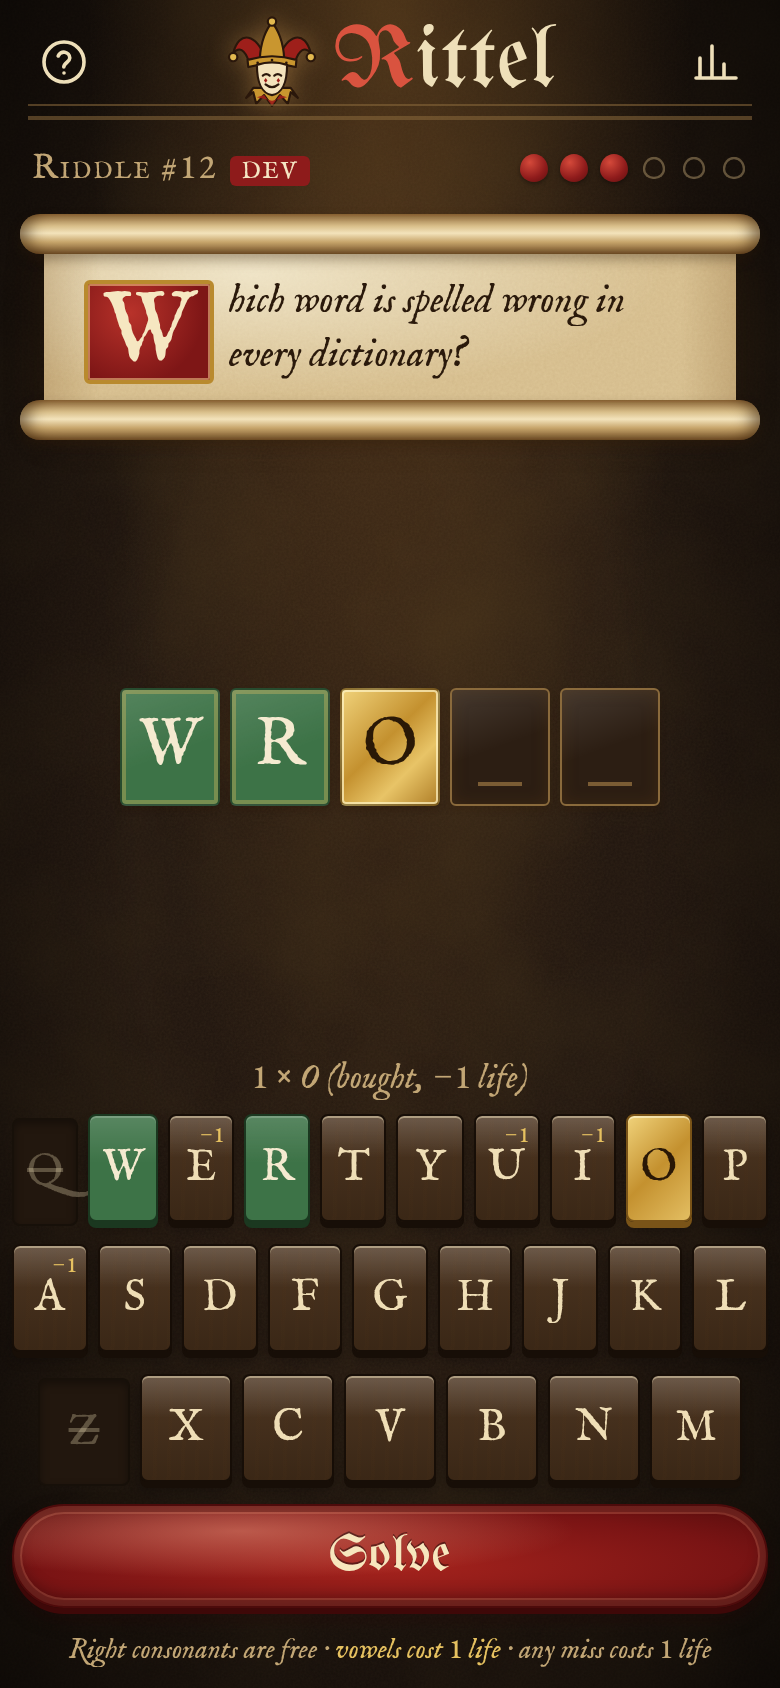
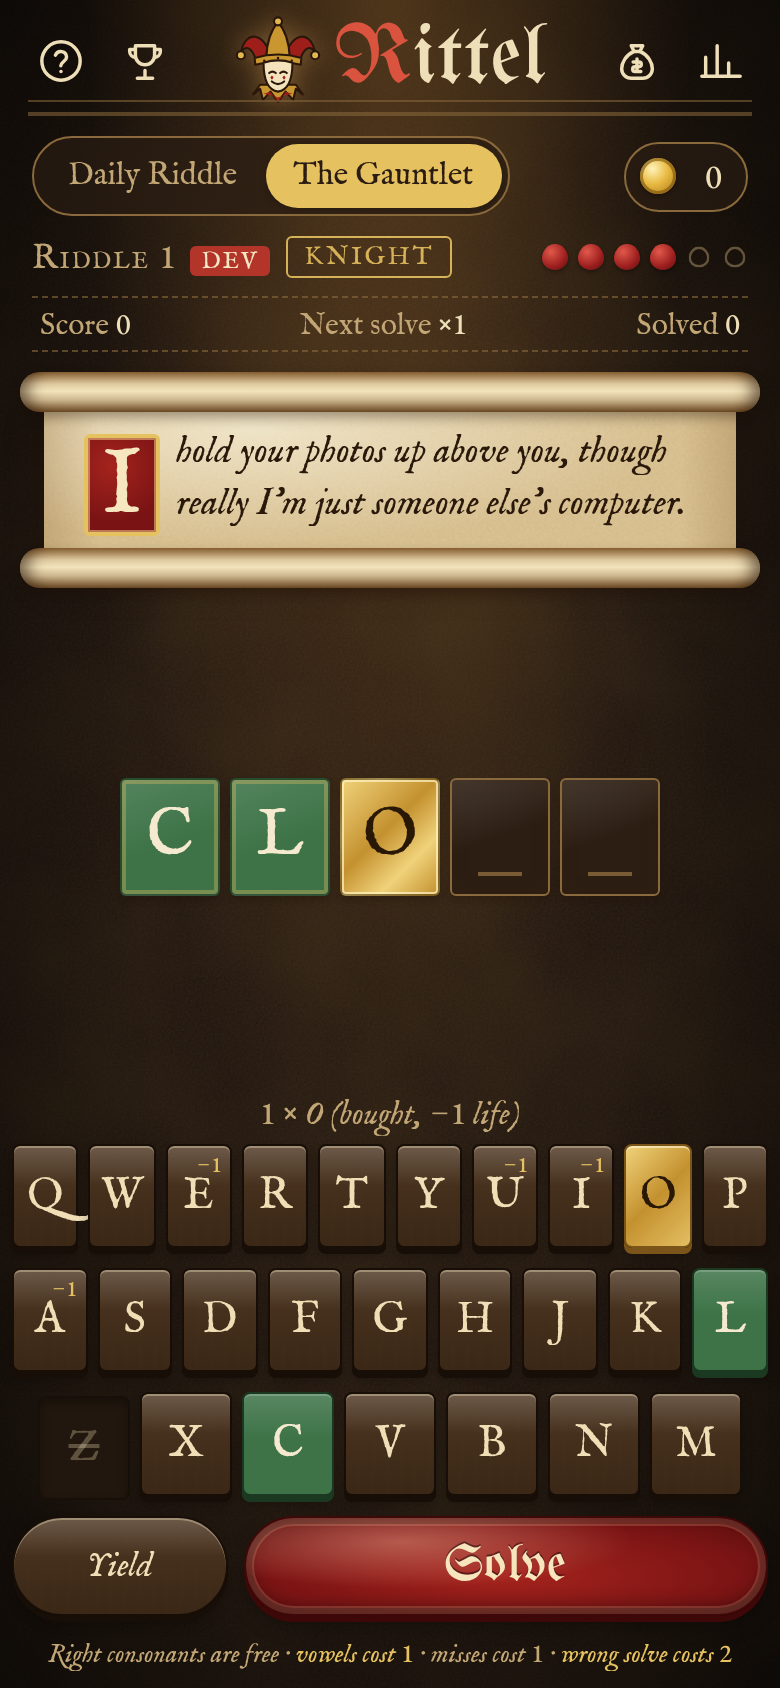
Docs: v2 README (modes, rules, scoring, Armory, ads, roadmap) and screenshots

diff --git a/README.md b/README.md
@@ -1,52 +1,138 @@
 # Rittel 🃏
 
-**A daily riddle game, like Wheel of Fortune meets Wordle.**
+**Riddles of the court: Wheel of Fortune meets Wordle, with an endless Gauntlet.**
 
-Each day brings one riddle. The answer starts as blank tiles on an old parchment scroll, and you have six lives to reveal it.
+The court jester poses a riddle. Its answer sits as blank tiles on an old parchment scroll, and you reveal it letter by letter, or solve it early for a big bonus, before your lives run out.
 
-![Rittel mid-game](docs/play.png)
+| Daily Riddle | The Gauntlet | Points |
+| --- | --- | --- |
+| ![Daily riddle mid-game](docs/play.png) | ![Gauntlet start](docs/gauntlet-start.png) | ![Points popping after a solve](docs/gauntlet.png) |
 
 ## How to play
 
-- Guess a consonant. If it's in the answer, it's free. If not, you lose a life.
-- Vowels always cost a life, like buying one on Wheel of Fortune, and you can't buy one on your last life.
-- Hit **Solve** (or press Enter) whenever you think you know it. A wrong solve costs a life.
-- Your score is the number of lives you used, so lower is better.
-- Share your result as an emoji grid, Wordle-style:
+- **Consonants** are free if they're in the answer. A wrong consonant costs **1 life**.
+- **Vowels** (A E I O U) always cost **1 life**, right or wrong, and you can't buy one with your last life.
+- **Solve** at any time. A **wrong solve costs 2 lives**, so blind guessing is a real gamble.
+- Fill every tile or solve it to win.
+
+## Modes
+
+### Daily Riddle
+- One shared riddle per day with **6 lives**, picked from the local date.
+- Difficulty follows the week: **Squire on Monday, Knight Tuesday to Thursday, Sage Friday to Sunday**.
+- Stats, streaks and a lives-used chart, a countdown to tomorrow's riddle, and a Wordle-style share:
 
 ```
 Rittel #298 🧩 2/6
 🟩🟩⬛🟨🟩⭐
+⚜ 790 points
 ```
 
 🟩 letter found · 🟨 vowel bought · ⬛ miss · 🟥 wrong solve · ⭐ solved
 
-## Features
+### The Gauntlet (endless)
+- Riddle after riddle. The run ends when your lives run out.
+- You start with **6 lives**, and lives **carry over** between riddles.
+- Every solve heals **1 life**, and a **flawless** solve (no lives lost on that riddle) heals **2**, up to **9**.
+- **Yield** skips a riddle for 1 life and resets your streak.
+- Difficulty ramps up as the run goes on: mostly Squire at first, mostly Sage after riddle 8.
+- Riddles **never repeat** until you've seen the whole bank. Today's daily riddle is always kept out of the Gauntlet.
+- Runs are recorded in the **Hall of Fame** with your name.
 
-- A new riddle every day from a bank of 70 originals
-- Stats, streaks and a lives-used distribution saved in the browser
-- Medieval scroll styling with blackletter type and a hand-drawn jester logo
-- A candlelit dark mode and a mobile-friendly layout
-- A single self-contained HTML file with no network calls, tracking or dependencies
+## Scoring
 
-| Win screen | Dark mode |
+```
+points = (tier base + hidden-tile bonus + 10 × lives left) × streak multiplier      (rounded to 5)
+```
+
+| Part | Value |
 | --- | --- |
-| ![Win screen](docs/win.png) | ![Dark mode on mobile](docs/mobile-dark.png) |
+| Tier base | Squire 100 · Knight 200 · Sage 300 |
+| Hidden-tile bonus | up to +200% of base: `base × 2 × (tiles still hidden ÷ total tiles)` at the moment you solve |
+| Lives bonus | +10 per life left after the solve |
+| Streak multiplier | ×1, ×1.25, ×1.5 … capped at ×3. In the Gauntlet it counts consecutive solves in the run; in the Daily it counts consecutive days solved. |
+
+Solving a Sage riddle cold with everything hidden is worth 3× the base, but a miss costs 2 lives. Filling in tiles is safer but scores less.
+
+## Progression: gold and the Armory
+
+Every point you earn also goes into your **gold** purse. Spend it in **the Armory**:
+
+| Item | Price |
+| --- | --- |
+| Parchment (default; candlelit leather in dark mode) | free |
+| Royal Court (purple velvet and gold leaf) | 2,500 |
+| Forest Ranger (oak, moss and lantern light) | 4,000 |
+| Banish the Ads | 6,000 |
+| Dragon's Hoard (obsidian, embers and gold) | 8,000 |
+
+A good Gauntlet run earns about 800 to 2,000 gold, so the first skin comes after a few runs. Skins are pure CSS variable themes (`src/skins.css`).
+
+| Royal Court | Forest Ranger | Dragon's Hoard | Candlelit (dark mode) |
+| --- | --- | --- | --- |
+| ![Royal Court skin](docs/skin-royal.png) | ![Forest Ranger skin](docs/skin-forest.png) | ![Dragon's Hoard skin](docs/skin-dragon.png) | ![Dark mode](docs/mobile-dark.png) |
+
+| Daily result | Run over | Hall of Fame | Armory |
+| --- | --- | --- | --- |
+| ![Daily win screen](docs/win.png) | ![Run end](docs/run-end.png) | ![Hall of Fame](docs/hall.png) | ![The Armory](docs/shop.png) |
+
+## Riddle bank
+
+`src/riddles.txt` holds **374 original riddles**: 126 Squire, 123 Knight and 125 Sage. They are a mix of descriptive riddles, wordplay, idioms, myth and history, and a few for the tech crowd. Each line is `tier|ANSWER|riddle`. The answer is A–Z and spaces only and doubles as the riddle's stable id. The build rejects duplicates, bad characters, unknown tiers or a bank under 250. The tests also check that no riddle gives away its own answer.
+
+## Leaderboard
+
+For now the Hall of Fame is local to the device: top Gauntlet runs with names, best daily scores, and lifetime records. All UI goes through a small adapter in `src/game.js`:
+
+```js
+// submitScore(board, entry) -> Promise<{rank}>     board: "gauntlet" | "daily"
+// getTop(board, limit)     -> Promise<entry[]>
+const Leaderboard = LocalLeaderboard;   // swap in a remote adapter (Supabase, Firebase …) later
+```
+
+## Ads (off)
+
+There's an isolated, **disabled-by-default** bottom banner slot (`#adSlot`). With `CONFIG.ADS_ENABLED = false` it renders nothing, takes no space and loads no scripts. It also stays hidden for anyone who owns **Banish the Ads**. When enabled, it reserves a fixed 60px height so the page never jumps when an ad loads.
+
+On the web this would be **Google AdSense**. AdMob is Google's ad network for native iOS/Android apps, so it only applies if Rittel is wrapped as a native app. To turn ads on:
+1. Get the site approved in AdSense and create a display ad unit.
+2. Set `ADS_ENABLED: true`, `AD_CLIENT: "ca-pub-…"` and `AD_SLOT: "…"` in `CONFIG` at the top of `src/game.js`.
+3. Fill in `Ads.load()` to inject the AdSense loader script and an `<ins class="adsbygoogle">` unit into the slot.
+4. Add an `ads.txt` file to the site root, add a privacy policy, and set up a consent banner (a CMP) for EU/UK visitors.
+5. Re-run the tests. The "no network requests" check is expected to fail once ads are live, so scope it to the non-ad build.
 
 ## Development
 
-Open `index.html` in any browser to play locally.
+`index.html` is a single, self-contained, offline file built from `src/`. Don't edit it by hand.
 
-- `?day=N` plays a specific day, with separate dev stats, and `&reset=1` clears them.
-- `index.html` is generated, so don't edit it directly. Change game logic in `src/game.html`, styling in `src/style.css` and the logo in `src/jester.svg`, then rebuild with:
+| File | What it holds |
+| --- | --- |
+| `src/game.html` | page template |
+| `src/game.js` | game logic, scoring, modes, shop, leaderboard adapter, ads config |
+| `src/riddles.txt` | riddle bank |
+| `src/skins.css` / `src/style.css` | skin variables / base styles |
+| `src/jester.svg` | logo and favicon |
+| `src/fonts/` | OFL font subsets, embedded as base64 |
 
 ```sh
-python3 src/build.py
+python3 src/build.py        # build index.html (validates the riddle bank)
+python3 tests/test.py       # end-to-end tests (Playwright + Chrome/Chromium)
+python3 tests/shots.py      # regenerate docs/ screenshots
 ```
 
-- Tests use Playwright: `pip install playwright && playwright install chromium`, then run `python3 tests/test.py`. `python3 tests/shots.py` regenerates the screenshots in `docs/`.
+- Tests need `pip install playwright` and a Chrome/Chromium, either `playwright install chromium` or the `CHROME=/path/to/chrome` env var.
+- `?day=N` plays a specific daily riddle and `?dev=1` turns on dev mode for today. Both use separate dev storage. `&reset=1` wipes dev storage.
+- Players' v1 data is migrated automatically. Daily stats and streaks carry over, veterans get 150 gold per past win, and a daily already finished on v1 isn't counted twice.
 
 Pushing to the `dev` branch deploys the test build to GitHub Pages.
+
+## Roadmap
+
+- **Global leaderboard:** a remote adapter (Supabase or Firebase) behind the same `submitScore`/`getTop` interface, with daily and all-time boards and light anti-cheat (server-side validation of solve times).
+- **AdSense banner:** turn on the slot described above. **Banish the Ads** becomes a real perk.
+- **More skins and cosmetics:** seasonal skins, jester hat variants, tile and seal styles.
+- **More riddles:** community submissions and themed weeks.
+- Achievements, run modifiers (e.g. "no vowels" for double points) and sound effects.
 
 ## Credits
 
